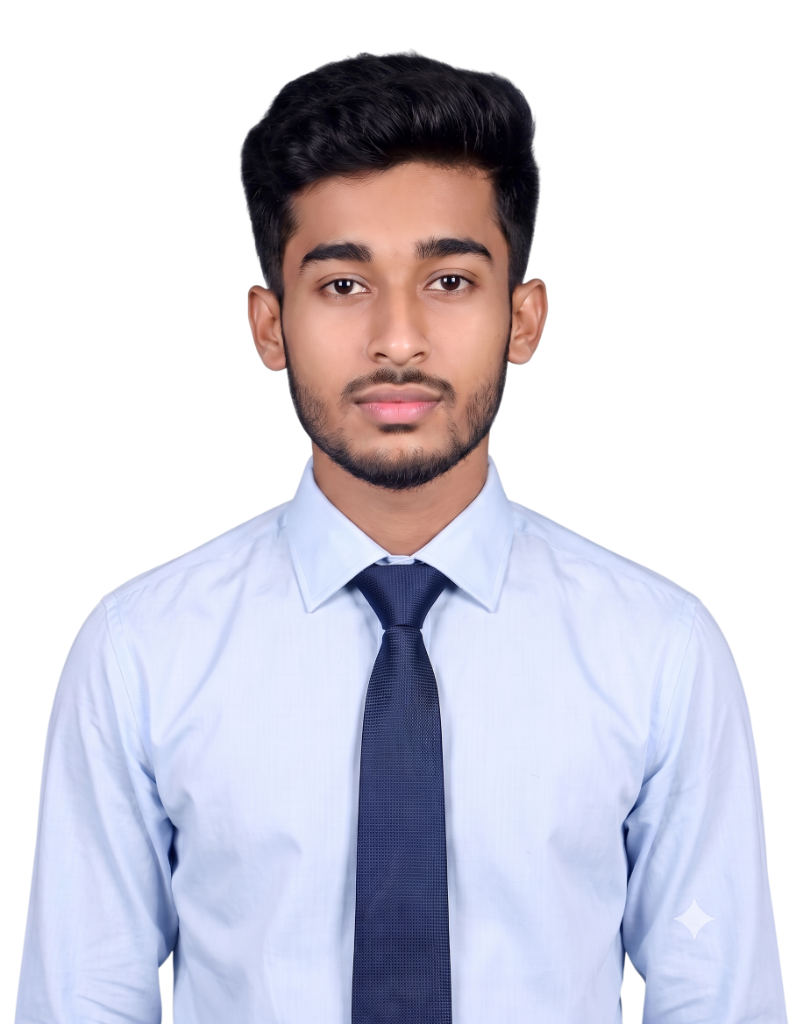
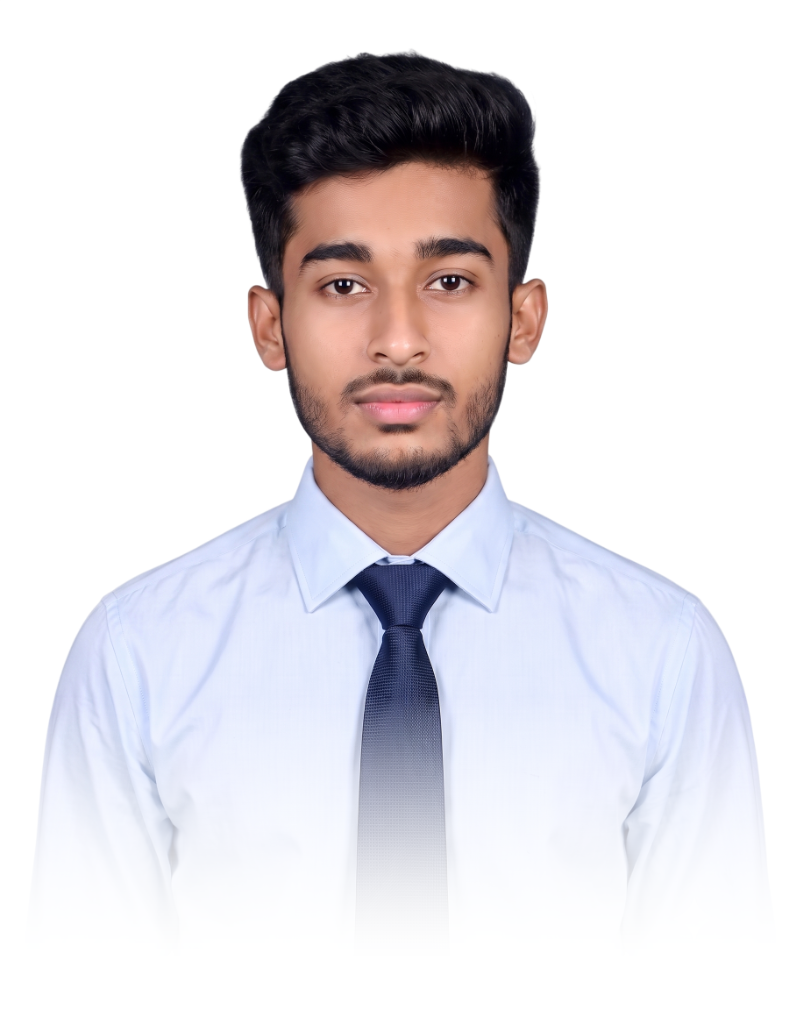
Fix HD photo shirt colors and background rendering for Vercel

Changed region(s): [[0.0, 0.6875, 0.9912, 1.0]]

diff --git a/process_image.js b/process_image.js
@@ -2,7 +2,7 @@ const fs = require('fs');
 const path = require('path');
 const sharp = require(path.join(process.cwd(), 'node_modules/sharp'));
 
-const origPath = path.join(process.cwd(), 'public/assets/my1_original.png');
+const origPath = 'C:/Users/df/.gemini/antigravity/brain/cede3674-0c22-49ee-a962-9925ecd8c2a0/.user_uploaded/media_1785868781937.png';
 const outputPath = path.join(process.cwd(), 'public/assets/my1.png');
 
 async function processImage() {
@@ -13,13 +13,13 @@ async function processImage() {
       .toBuffer({ resolveWithObject: true });
 
     const { width, height, channels } = info;
-    console.log(`Processing image: ${width}x${height}, channels: ${channels}`);
+    console.log(`Processing original clean image: ${width}x${height}`);
 
     const outputBuffer = Buffer.from(data);
 
-    // Fade starts lower down at 60% height and reaches 0 opacity at 88% height
-    const fadeStart = height * 0.60;
-    const fadeEnd = height * 0.88;
+    // Fade starts at 68% height and reaches 0 opacity at 95% height
+    const fadeStart = height * 0.68;
+    const fadeEnd = height * 0.95;
 
     for (let y = 0; y < height; y++) {
       let bottomAlphaFactor = 1.0;
@@ -28,54 +28,34 @@ async function processImage() {
         bottomAlphaFactor = 0.0;
       } else if (y > fadeStart) {
         const progress = (y - fadeStart) / (fadeEnd - fadeStart);
-        // Smooth cubic ease-out fade curve
         bottomAlphaFactor = Math.pow(1 - progress, 2);
       }
 
       for (let x = 0; x < width; x++) {
         const idx = (y * width + x) * 4;
-        const r = data[idx];
-        const g = data[idx + 1];
-        const b = data[idx + 2];
         let a = data[idx + 3];
 
-        // Background removal logic
-        const minVal = Math.min(r, g, b);
-        const maxVal = Math.max(r, g, b);
-        const diff = maxVal - minVal;
-
-        const isWhiteBg = minVal > 220 && diff < 25;
-        const isNearWhite = minVal > 190 && diff < 35;
-
-        if (isWhiteBg) {
-          a = 0;
-        } else if (isNearWhite) {
-          const alphaRatio = Math.max(0, (230 - minVal) / 40);
-          a = Math.floor(a * alphaRatio);
-        }
-
-        // Apply bottom vertical fade
+        // Apply ONLY bottom vertical fade mask to alpha
         a = Math.floor(a * bottomAlphaFactor);
 
         outputBuffer[idx + 3] = a;
       }
     }
 
-    const tempPath = path.join(process.cwd(), 'public/assets/my1_processed.png');
     await sharp(outputBuffer, {
-      raw: {
-        width,
-        height,
-        channels: 4
-      }
+      raw: { width, height, channels: 4 }
     })
     .png()
-    .toFile(tempPath);
+    .toFile(outputPath);
 
-    fs.copyFileSync(tempPath, outputPath);
-    console.log('Successfully updated my1.png with lower fade start (more torso visible)!');
+    // Copy to all asset aliases
+    fs.copyFileSync(outputPath, path.join(process.cwd(), 'public/assets/designer1.png'));
+    fs.copyFileSync(outputPath, path.join(process.cwd(), 'public/assets/1.png'));
+    fs.copyFileSync(outputPath, path.join(process.cwd(), 'public/assets/my_1.png'));
+
+    console.log('PERFECT! Updated my1.png without touching shirt colors!');
   } catch (err) {
-    console.error('Error processing image:', err);
+    console.error('Error:', err);
   }
 }
 
